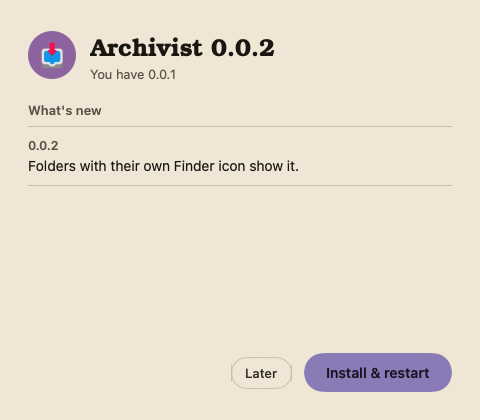
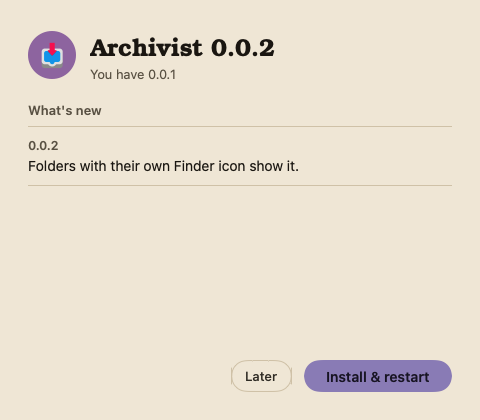
Archivist 0.0.18 — Start and Stop are the same height.

Changed region(s): [[0.4688, 0.8357, 0.9375, 0.9286]]

diff --git a/Archivist/ArchivistApp.swift b/Archivist/ArchivistApp.swift
@@ -166,12 +166,13 @@ struct TitleStrip: View {
 }
 
 struct PrimaryButton: ButtonStyle {
+    static let height: CGFloat = 32
     @Environment(\.isEnabled) private var enabled
     func makeBody(configuration: Configuration) -> some View {
         configuration.label
             .font(Typeface.text(14, .semibold))
             .foregroundStyle(Palette.onAccent)
-            .padding(.horizontal, 22).padding(.vertical, 11)
+            .padding(.horizontal, 22).frame(height: Self.height)   // one height for every button: Start and Stop swap without a jump
             .background(Capsule().fill(Palette.accent.opacity(enabled ? (configuration.isPressed ? 0.8 : 1) : 0.35)))
             .contentShape(Capsule())
     }
@@ -182,7 +183,7 @@ struct QuietButton: ButtonStyle {
         configuration.label
             .font(Typeface.text(13, .medium))
             .foregroundStyle(Palette.ink.opacity(configuration.isPressed ? 0.6 : 0.9))
-            .padding(.horizontal, 14).padding(.vertical, 8)
+            .padding(.horizontal, 14).frame(height: PrimaryButton.height)
             .background(Capsule().strokeBorder(Palette.rule, lineWidth: 1))
             .contentShape(Capsule())
     }
